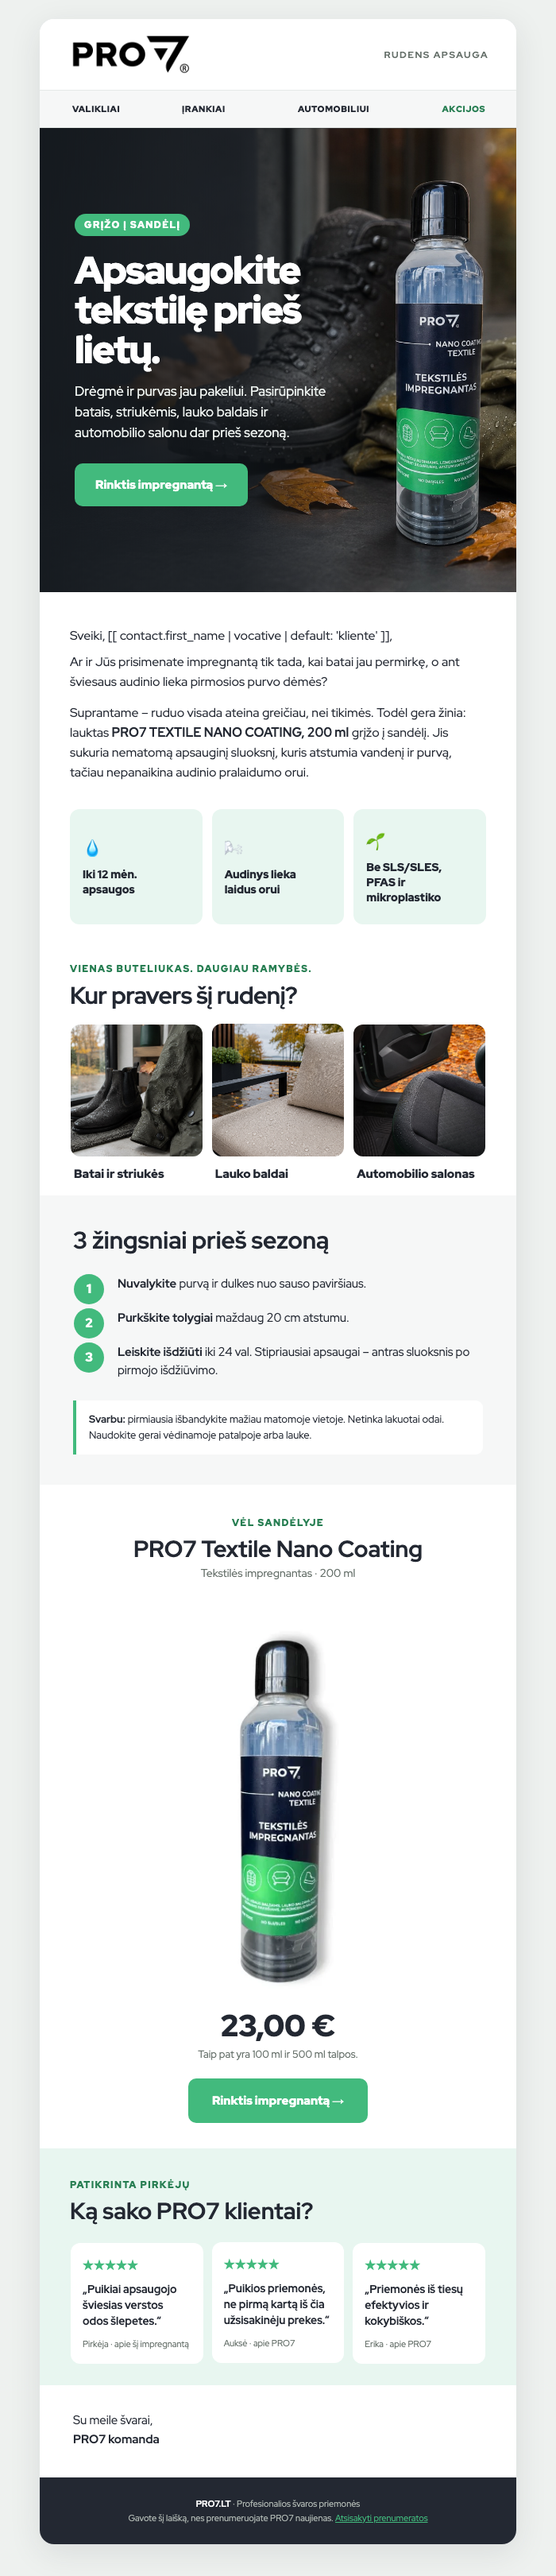
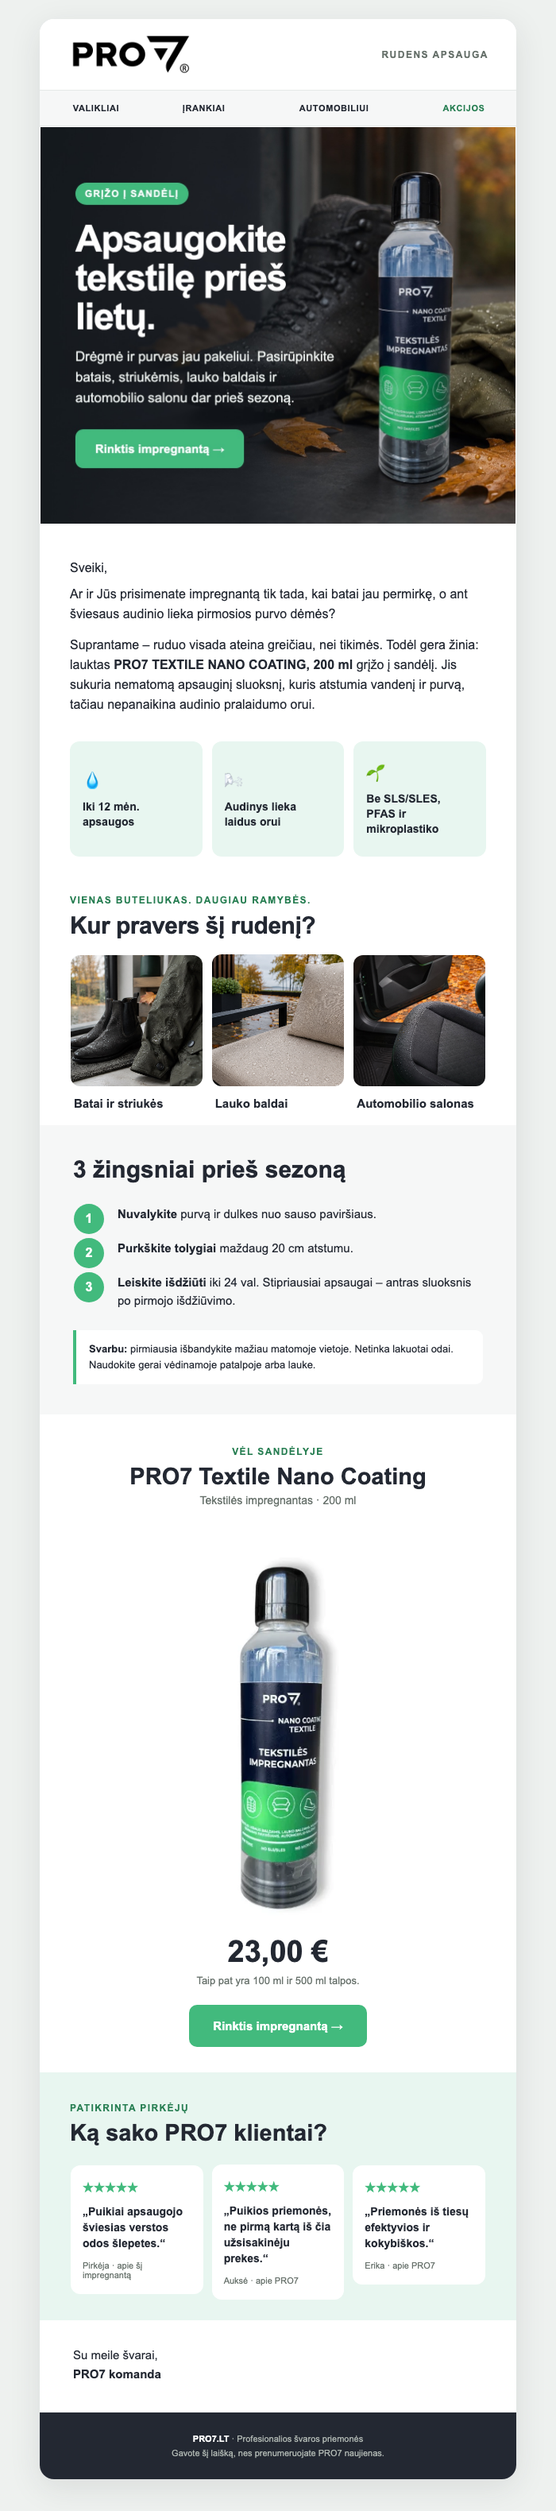
Fix Omnisend rendering, links, greeting, and footer

diff --git a/nl1-textile-impregnantas/index.html b/nl1-textile-impregnantas/index.html
@@ -6,7 +6,6 @@
   <meta name="x-apple-disable-message-reformatting">
   <title>Grįžo tekstilės impregnantas</title>
   <style>
-    @import url('https://fonts.googleapis.com/css2?family=Red+Hat+Display:wght@400;500;700;900&display=swap');
     html,body{margin:0!important;padding:0!important;width:100%!important;background:#eef1ef}
     table{border-collapse:collapse!important;border-spacing:0!important} img{border:0;display:block;line-height:100%;outline:none;text-decoration:none}
     a{text-decoration:none}.preheader{display:none!important;visibility:hidden;opacity:0;color:transparent;height:0;width:0;overflow:hidden;mso-hide:all}
@@ -20,75 +19,68 @@
       <tr><td bgcolor="#ffffff" style="padding:14px 34px">
         <table role="presentation" width="100%"><tr>
           <td><a href="https://www.pro7.lt"><img class="logo" src="assets/pro7-logo-crop.png" width="160" alt="PRO7" style="width:160px;height:auto"></a></td>
-          <td align="right" style="font-family:'Red Hat Display',Arial,sans-serif;font-size:12px;letter-spacing:1.5px;text-transform:uppercase;color:#66706a;font-weight:700">Rudens apsauga</td>
+          <td align="right" style="font-family:Arial,Helvetica,sans-serif;font-size:12px;letter-spacing:1.5px;text-transform:uppercase;color:#66706a;font-weight:700">Rudens apsauga</td>
         </tr></table>
       </td></tr>
       <tr><td bgcolor="#f6f7f7" style="border-top:1px solid #e5e9e7;border-bottom:1px solid #e5e9e7">
         <table role="presentation" width="100%"><tr>
-          <td align="center"><a class="nav-link" href="https://www.pro7.lt/svaros-prekes" style="display:block;padding:14px 6px;font-family:'Red Hat Display',Arial,sans-serif;font-size:11px;font-weight:900;color:#232832;text-transform:uppercase;letter-spacing:.6px">Valikliai</a></td>
-          <td align="center"><a class="nav-link" href="https://www.pro7.lt/valymo-irankiai-ir-reikmenys" style="display:block;padding:14px 6px;font-family:'Red Hat Display',Arial,sans-serif;font-size:11px;font-weight:900;color:#232832;text-transform:uppercase;letter-spacing:.6px">Įrankiai</a></td>
-          <td align="center"><a class="nav-link" href="https://www.pro7.lt/automobilio-prieziuros-priemones" style="display:block;padding:14px 6px;font-family:'Red Hat Display',Arial,sans-serif;font-size:11px;font-weight:900;color:#232832;text-transform:uppercase;letter-spacing:.6px">Automobiliui</a></td>
-          <td align="center"><a class="nav-link" href="https://www.pro7.lt/akcijos-pasiulymai" style="display:block;padding:14px 6px;font-family:'Red Hat Display',Arial,sans-serif;font-size:11px;font-weight:900;color:#277e52;text-transform:uppercase;letter-spacing:.6px">Akcijos</a></td>
+          <td align="center"><a class="nav-link" href="https://www.pro7.lt/svaros-prekes-valikliai" style="display:block;padding:14px 6px;font-family:Arial,Helvetica,sans-serif;font-size:11px;font-weight:700;color:#232832;text-transform:uppercase;letter-spacing:.6px">Valikliai</a></td>
+          <td align="center"><a class="nav-link" href="https://www.pro7.lt/valymo-irankiai-ir-reikmenys" style="display:block;padding:14px 6px;font-family:Arial,Helvetica,sans-serif;font-size:11px;font-weight:700;color:#232832;text-transform:uppercase;letter-spacing:.6px">Įrankiai</a></td>
+          <td align="center"><a class="nav-link" href="https://www.pro7.lt/automobilio-prieziuros-priemones" style="display:block;padding:14px 6px;font-family:Arial,Helvetica,sans-serif;font-size:11px;font-weight:700;color:#232832;text-transform:uppercase;letter-spacing:.6px">Automobiliui</a></td>
+          <td align="center"><a class="nav-link" href="https://www.pro7.lt/akcijos-pasiulymai" style="display:block;padding:14px 6px;font-family:Arial,Helvetica,sans-serif;font-size:11px;font-weight:700;color:#277e52;text-transform:uppercase;letter-spacing:.6px">Akcijos</a></td>
         </tr></table>
       </td></tr>
 
-      <tr><td class="hero-copy" valign="middle" background="assets/hero.jpg" style="height:500px;padding:42px 44px;color:#ffffff;font-family:'Red Hat Display',Arial,sans-serif;background-image:linear-gradient(90deg,rgba(20,25,30,.95) 0%,rgba(20,25,30,.76) 42%,rgba(20,25,30,.08) 72%),url('assets/hero.jpg');background-size:cover;background-position:center">
-        <div class="hero-text" style="max-width:335px">
-          <div style="display:inline-block;background:#42ba7d;border-radius:999px;padding:7px 12px;font-size:12px;line-height:14px;font-weight:900;letter-spacing:1.4px;text-transform:uppercase">Grįžo į sandėlį</div>
-          <h1 class="h1" style="margin:18px 0 14px;font-size:48px;line-height:50px;letter-spacing:-1.5px;font-weight:900">Apsaugokite tekstilę prieš lietų.</h1>
-          <p style="margin:0 0 26px;font-size:17px;line-height:26px;color:#edf2ef">Drėgmė ir purvas jau pakeliui. Pasirūpinkite batais, striukėmis, lauko baldais ir automobilio salonu dar prieš sezoną.</p>
-          <table role="presentation"><tr><td bgcolor="#42ba7d" style="border-radius:10px"><a href="https://www.pro7.lt/svaros-prekes/1437-pro7-textile-nano-coating-200-ml-tekstiles-impregnantas" style="display:inline-block;padding:16px 25px;font-family:'Red Hat Display',Arial,sans-serif;font-size:15px;font-weight:900;color:#ffffff">Rinktis impregnantą →</a></td></tr></table>
-        </div>
-      </td></tr>
+      <tr><td><a href="https://www.pro7.lt/svaros-prekes/1437-pro7-textile-nano-coating-200-ml-tekstiles-impregnantas"><img src="assets/hero-final.jpg" width="600" alt="Grįžo PRO7 tekstilės impregnantas – rinktis impregnantą" style="width:100%;height:auto"></a></td></tr>
 
-      <tr><td class="pad" style="padding:42px 38px 24px;font-family:'Red Hat Display',Arial,sans-serif;color:#232832">
-        <p style="margin:0 0 8px;font-size:16px;line-height:25px">Sveiki, [[ contact.first_name | default: 'bičiuli' ]],</p>
+      <tr><td class="pad" style="padding:42px 38px 24px;font-family:Arial,Helvetica,sans-serif;color:#232832">
+        <p style="margin:0 0 8px;font-size:16px;line-height:25px">Sveiki,</p>
         <p style="margin:0 0 14px;font-size:16px;line-height:25px">Ar ir Jūs prisimenate impregnantą tik tada, kai batai jau permirkę, o ant šviesaus audinio lieka pirmosios purvo dėmės?</p>
         <p style="margin:0;font-size:16px;line-height:25px">Suprantame – ruduo visada ateina greičiau, nei tikimės. Todėl gera žinia: lauktas <strong>PRO7 TEXTILE NANO COATING, 200 ml</strong> grįžo į sandėlį. Jis sukuria nematomą apsauginį sluoksnį, kuris atstumia vandenį ir purvą, tačiau nepanaikina audinio pralaidumo orui.</p>
       </td></tr>
 
       <tr><td class="pad" style="padding:10px 38px 10px">
         <table role="presentation" width="100%"><tr>
-          <td class="benefit" width="33.33%" valign="top" style="padding:0 8px 0 0"><table role="presentation" width="100%" height="145" bgcolor="#e8f6f0" style="height:145px;border-radius:12px"><tr><td valign="middle" style="height:107px;padding:19px 16px;font-family:'Red Hat Display',Arial,sans-serif;color:#232832"><div style="font-size:24px">💧</div><div style="font-size:14px;line-height:19px;font-weight:900;margin-top:7px">Iki 12 mėn.<br>apsaugos</div></td></tr></table></td>
-          <td class="benefit" width="33.33%" valign="top" style="padding:0 4px"><table role="presentation" width="100%" height="145" bgcolor="#e8f6f0" style="height:145px;border-radius:12px"><tr><td valign="middle" style="height:107px;padding:19px 16px;font-family:'Red Hat Display',Arial,sans-serif;color:#232832"><div style="font-size:24px">🌬</div><div style="font-size:14px;line-height:19px;font-weight:900;margin-top:7px">Audinys lieka<br>laidus orui</div></td></tr></table></td>
-          <td class="benefit" width="33.33%" valign="top" style="padding:0 0 0 8px"><table role="presentation" width="100%" height="145" bgcolor="#e8f6f0" style="height:145px;border-radius:12px"><tr><td valign="middle" style="height:107px;padding:19px 16px;font-family:'Red Hat Display',Arial,sans-serif;color:#232832"><div style="font-size:24px">🌱</div><div style="font-size:14px;line-height:19px;font-weight:900;margin-top:7px">Be SLS/SLES,<br>PFAS ir mikroplastiko</div></td></tr></table></td>
+          <td class="benefit" width="33.33%" valign="top" style="padding:0 8px 0 0"><table role="presentation" width="100%" height="145" bgcolor="#e8f6f0" style="height:145px;border-radius:12px"><tr><td valign="middle" style="height:107px;padding:19px 16px;font-family:Arial,Helvetica,sans-serif;color:#232832"><div style="font-size:24px">💧</div><div style="font-size:14px;line-height:19px;font-weight:700;margin-top:7px">Iki 12 mėn.<br>apsaugos</div></td></tr></table></td>
+          <td class="benefit" width="33.33%" valign="top" style="padding:0 4px"><table role="presentation" width="100%" height="145" bgcolor="#e8f6f0" style="height:145px;border-radius:12px"><tr><td valign="middle" style="height:107px;padding:19px 16px;font-family:Arial,Helvetica,sans-serif;color:#232832"><div style="font-size:24px">🌬</div><div style="font-size:14px;line-height:19px;font-weight:700;margin-top:7px">Audinys lieka<br>laidus orui</div></td></tr></table></td>
+          <td class="benefit" width="33.33%" valign="top" style="padding:0 0 0 8px"><table role="presentation" width="100%" height="145" bgcolor="#e8f6f0" style="height:145px;border-radius:12px"><tr><td valign="middle" style="height:107px;padding:19px 16px;font-family:Arial,Helvetica,sans-serif;color:#232832"><div style="font-size:24px">🌱</div><div style="font-size:14px;line-height:19px;font-weight:700;margin-top:7px">Be SLS/SLES,<br>PFAS ir mikroplastiko</div></td></tr></table></td>
         </tr></table>
       </td></tr>
 
-      <tr><td class="pad" style="padding:38px 38px 18px;font-family:'Red Hat Display',Arial,sans-serif;color:#232832">
-        <div style="font-size:12px;letter-spacing:1.4px;text-transform:uppercase;color:#277e52;font-weight:900">Vienas buteliukas. Daugiau ramybės.</div>
+      <tr><td class="pad" style="padding:38px 38px 18px;font-family:Arial,Helvetica,sans-serif;color:#232832">
+        <div style="font-size:12px;letter-spacing:1.4px;text-transform:uppercase;color:#277e52;font-weight:700">Vienas buteliukas. Daugiau ramybės.</div>
         <h2 style="margin:7px 0 0;font-size:30px;line-height:36px;letter-spacing:-.5px">Kur pravers šį rudenį?</h2>
       </td></tr>
       <tr><td class="pad" style="padding:0 38px 4px">
         <table role="presentation" width="100%"><tr>
-          <td class="use-card" width="33.33%" valign="top" style="padding-right:8px"><img src="assets/use-shoes-jacket.jpg" width="169" alt="Vandens lašeliais padengti batai ir lauko striukė" style="width:100%;border-radius:12px"><div style="padding:12px 4px;font-family:'Red Hat Display',Arial,sans-serif;color:#232832;font-size:15px;line-height:20px;font-weight:900">Batai ir striukės</div></td>
-          <td class="use-card" width="33.33%" valign="top" style="padding:0 4px"><img src="assets/use-outdoor-furniture.jpg" width="169" alt="Nuo drėgmės apsaugotas lauko baldo audinys" style="width:100%;border-radius:12px"><div style="padding:12px 4px;font-family:'Red Hat Display',Arial,sans-serif;color:#232832;font-size:15px;line-height:20px;font-weight:900">Lauko baldai</div></td>
-          <td class="use-card" width="33.33%" valign="top" style="padding-left:8px"><img src="assets/use-car-interior.jpg" width="169" alt="Nuo drėgmės apsaugotas automobilio salono audinys" style="width:100%;border-radius:12px"><div style="padding:12px 4px;font-family:'Red Hat Display',Arial,sans-serif;color:#232832;font-size:15px;line-height:20px;font-weight:900">Automobilio salonas</div></td>
+          <td class="use-card" width="33.33%" valign="top" style="padding-right:8px"><img src="assets/use-shoes-jacket.jpg" width="169" alt="Vandens lašeliais padengti batai ir lauko striukė" style="width:100%;border-radius:12px"><div style="padding:12px 4px;font-family:Arial,Helvetica,sans-serif;color:#232832;font-size:15px;line-height:20px;font-weight:700">Batai ir striukės</div></td>
+          <td class="use-card" width="33.33%" valign="top" style="padding:0 4px"><img src="assets/use-outdoor-furniture.jpg" width="169" alt="Nuo drėgmės apsaugotas lauko baldo audinys" style="width:100%;border-radius:12px"><div style="padding:12px 4px;font-family:Arial,Helvetica,sans-serif;color:#232832;font-size:15px;line-height:20px;font-weight:700">Lauko baldai</div></td>
+          <td class="use-card" width="33.33%" valign="top" style="padding-left:8px"><img src="assets/use-car-interior.jpg" width="169" alt="Nuo drėgmės apsaugotas automobilio salono audinys" style="width:100%;border-radius:12px"><div style="padding:12px 4px;font-family:Arial,Helvetica,sans-serif;color:#232832;font-size:15px;line-height:20px;font-weight:700">Automobilio salonas</div></td>
         </tr></table>
       </td></tr>
 
-      <tr><td class="pad" bgcolor="#f6f7f7" style="padding:38px 42px;font-family:'Red Hat Display',Arial,sans-serif;color:#232832">
+      <tr><td class="pad" bgcolor="#f6f7f7" style="padding:38px 42px;font-family:Arial,Helvetica,sans-serif;color:#232832">
         <h2 style="margin:0 0 24px;font-size:30px;line-height:36px">3 žingsniai prieš sezoną</h2>
         <table role="presentation" width="100%">
-          <tr><td class="step-num" width="54" valign="top"><div style="width:38px;height:38px;border-radius:50%;background:#42ba7d;color:#fff;text-align:center;line-height:38px;font-weight:900">1</div></td><td style="padding:2px 0 18px;font-size:15px;line-height:23px"><strong>Nuvalykite</strong> purvą ir dulkes nuo sauso paviršiaus.</td></tr>
-          <tr><td class="step-num" width="54" valign="top"><div style="width:38px;height:38px;border-radius:50%;background:#42ba7d;color:#fff;text-align:center;line-height:38px;font-weight:900">2</div></td><td style="padding:2px 0 18px;font-size:15px;line-height:23px"><strong>Purkškite tolygiai</strong> maždaug 20 cm atstumu.</td></tr>
-          <tr><td class="step-num" width="54" valign="top"><div style="width:38px;height:38px;border-radius:50%;background:#42ba7d;color:#fff;text-align:center;line-height:38px;font-weight:900">3</div></td><td style="padding:2px 0;font-size:15px;line-height:23px"><strong>Leiskite išdžiūti</strong> iki 24 val. Stipriausiai apsaugai – antras sluoksnis po pirmojo išdžiūvimo.</td></tr>
+          <tr><td class="step-num" width="54" valign="top"><div style="width:38px;height:38px;border-radius:50%;background:#42ba7d;color:#fff;text-align:center;line-height:38px;font-weight:700">1</div></td><td style="padding:2px 0 18px;font-size:15px;line-height:23px"><strong>Nuvalykite</strong> purvą ir dulkes nuo sauso paviršiaus.</td></tr>
+          <tr><td class="step-num" width="54" valign="top"><div style="width:38px;height:38px;border-radius:50%;background:#42ba7d;color:#fff;text-align:center;line-height:38px;font-weight:700">2</div></td><td style="padding:2px 0 18px;font-size:15px;line-height:23px"><strong>Purkškite tolygiai</strong> maždaug 20 cm atstumu.</td></tr>
+          <tr><td class="step-num" width="54" valign="top"><div style="width:38px;height:38px;border-radius:50%;background:#42ba7d;color:#fff;text-align:center;line-height:38px;font-weight:700">3</div></td><td style="padding:2px 0;font-size:15px;line-height:23px"><strong>Leiskite išdžiūti</strong> iki 24 val. Stipriausiai apsaugai – antras sluoksnis po pirmojo išdžiūvimo.</td></tr>
         </table>
         <div style="margin-top:24px;padding:14px 16px;border-left:4px solid #42ba7d;background:#ffffff;border-radius:0 9px 9px 0;font-size:13px;line-height:20px"><strong>Svarbu:</strong> pirmiausia išbandykite mažiau matomoje vietoje. Netinka lakuotai odai. Naudokite gerai vėdinamoje patalpoje arba lauke.</div>
       </td></tr>
 
-      <tr><td class="pad" align="center" bgcolor="#ffffff" style="padding:40px 38px 32px;font-family:'Red Hat Display',Arial,sans-serif;color:#232832">
-        <div style="font-size:12px;letter-spacing:1.4px;text-transform:uppercase;color:#277e52;font-weight:900">Vėl sandėlyje</div>
+      <tr><td class="pad" align="center" bgcolor="#ffffff" style="padding:40px 38px 32px;font-family:Arial,Helvetica,sans-serif;color:#232832">
+        <div style="font-size:12px;letter-spacing:1.4px;text-transform:uppercase;color:#277e52;font-weight:700">Vėl sandėlyje</div>
         <h2 style="margin:7px 0 4px;font-size:29px;line-height:35px">PRO7 Textile Nano Coating</h2>
         <div style="font-size:14px;color:#66706a">Tekstilės impregnantas · 200 ml</div>
         <a href="https://www.pro7.lt/svaros-prekes/1437-pro7-textile-nano-coating-200-ml-tekstiles-impregnantas"><img class="product-shot" src="assets/product-crop.png" width="280" alt="PRO7 Textile Nano Coating, 200 ml" style="width:280px;max-width:100%;height:auto;margin:12px auto 4px"></a>
-        <div style="font-size:38px;line-height:43px;font-weight:900;margin:0 0 5px">23,00 €</div>
+        <div style="font-size:38px;line-height:43px;font-weight:700;margin:0 0 5px">23,00 €</div>
         <div style="font-size:13px;line-height:20px;color:#66706a;margin-bottom:20px">Taip pat yra 100 ml ir 500 ml talpos.</div>
-        <table role="presentation"><tr><td bgcolor="#42ba7d" style="border-radius:10px"><a href="https://www.pro7.lt/svaros-prekes/1437-pro7-textile-nano-coating-200-ml-tekstiles-impregnantas" style="display:inline-block;padding:17px 29px;font-family:'Red Hat Display',Arial,sans-serif;font-size:15px;font-weight:900;color:#fff">Rinktis impregnantą →</a></td></tr></table>
+        <table role="presentation"><tr><td bgcolor="#42ba7d" style="border-radius:10px"><a href="https://www.pro7.lt/svaros-prekes/1437-pro7-textile-nano-coating-200-ml-tekstiles-impregnantas" style="display:inline-block;padding:17px 29px;font-family:Arial,Helvetica,sans-serif;font-size:15px;font-weight:700;color:#fff">Rinktis impregnantą →</a></td></tr></table>
       </td></tr>
 
-      <tr><td class="pad" bgcolor="#e8f6f0" style="padding:38px 38px 26px;font-family:'Red Hat Display',Arial,sans-serif;color:#232832">
-        <div style="font-size:12px;letter-spacing:1.4px;text-transform:uppercase;color:#277e52;font-weight:900">Patikrinta pirkėjų</div>
+      <tr><td class="pad" bgcolor="#e8f6f0" style="padding:38px 38px 26px;font-family:Arial,Helvetica,sans-serif;color:#232832">
+        <div style="font-size:12px;letter-spacing:1.4px;text-transform:uppercase;color:#277e52;font-weight:700">Patikrinta pirkėjų</div>
         <h2 style="margin:7px 0 22px;font-size:29px;line-height:35px">Ką sako PRO7 klientai?</h2>
         <table role="presentation" width="100%"><tr>
           <td class="review-card" width="33.33%" valign="top" style="padding-right:7px"><table role="presentation" width="100%" bgcolor="#ffffff" style="border-radius:12px"><tr><td style="padding:18px 15px"><div style="color:#42ba7d;font-size:14px">★★★★★</div><p style="margin:9px 0 12px;font-size:14px;line-height:20px;font-weight:700">„Puikiai apsaugojo šviesias verstos odos šlepetes.“</p><div style="font-size:11px;color:#66706a">Pirkėja · apie šį impregnantą</div></td></tr></table></td>
@@ -97,12 +89,12 @@
         </tr></table>
       </td></tr>
 
-      <tr><td class="pad" style="padding:32px 42px 36px;font-family:'Red Hat Display',Arial,sans-serif;color:#232832;font-size:15px;line-height:24px">
+      <tr><td class="pad" style="padding:32px 42px 36px;font-family:Arial,Helvetica,sans-serif;color:#232832;font-size:15px;line-height:24px">
         <p style="margin:0">Su meile švarai,<br><strong>PRO7 komanda</strong></p>
       </td></tr>
-      <tr><td align="center" bgcolor="#232832" style="padding:24px 30px;font-family:'Red Hat Display',Arial,sans-serif;color:#aeb6b1;font-size:11px;line-height:18px">
+      <tr><td align="center" bgcolor="#232832" style="padding:24px 30px;font-family:Arial,Helvetica,sans-serif;color:#aeb6b1;font-size:11px;line-height:18px">
         <a href="https://www.pro7.lt" style="color:#ffffff;font-weight:700">PRO7.LT</a> · Profesionalios švaros priemonės<br>
-        Gavote šį laišką, nes prenumeruojate PRO7 naujienas. <a href="[[unsubscribe_link]]" style="color:#42ba7d;text-decoration:underline">Atsisakyti prenumeratos</a>
+        Gavote šį laišką, nes prenumeruojate PRO7 naujienas.
       </td></tr>
     </table>
   </td></tr></table>

diff --git a/nl1-textile-impregnantas/hero-build.html b/nl1-textile-impregnantas/hero-build.html
@@ -1,0 +1,3 @@
+<!doctype html><html><head><meta charset="utf-8"><style>
+*{box-sizing:border-box}html,body{margin:0;width:600px;height:500px;overflow:hidden;font-family:Arial,Helvetica,sans-serif}.hero{width:600px;height:500px;background-image:linear-gradient(90deg,rgba(20,25,30,.96) 0%,rgba(20,25,30,.77) 43%,rgba(20,25,30,.08) 73%),url('assets/hero.jpg');background-size:cover;background-position:center;display:flex;align-items:center;padding:42px 44px;color:white}.copy{width:335px}.badge{display:inline-block;background:#42ba7d;border-radius:999px;padding:7px 12px;font-size:12px;line-height:14px;font-weight:700;letter-spacing:1.2px;text-transform:uppercase}.title{font-size:47px;line-height:49px;letter-spacing:-1.5px;font-weight:700;margin:18px 0 14px}.text{font-size:17px;line-height:26px;color:#edf2ef;margin:0 0 26px}.cta{display:inline-block;background:#42ba7d;border-radius:10px;padding:16px 25px;font-size:15px;font-weight:700}
+</style></head><body><div class="hero"><div class="copy"><div class="badge">Grįžo į sandėlį</div><div class="title">Apsaugokite tekstilę prieš lietų.</div><p class="text">Drėgmė ir purvas jau pakeliui. Pasirūpinkite batais, striukėmis, lauko baldais ir automobilio salonu dar prieš sezoną.</p><div class="cta">Rinktis impregnantą →</div></div></div></body></html>

diff --git a/nl1-textile-impregnantas/CAMPAIGN.md b/nl1-textile-impregnantas/CAMPAIGN.md
@@ -13,8 +13,10 @@
 
 - Laiško plotis: 600 px. Maketas responsyvus ir paremtas el. paštui saugiomis lentelėmis.
 - Prieš siuntimą `assets/` vaizdus reikia įkelti į Omnisend CDN ir HTML faile pakeisti santykinius `src` adresus.
-- Naudojama oficiali Omnisend personalizacija: `[[ contact.first_name | default: 'bičiuli' ]]`.
-- Atsisakymo nuoroda naudoja oficialų Omnisend kintamąjį `[[unsubscribe_link]]`.
+- Kreipinys paliktas universalus: `Sveiki,` — be vardo kintamojo, kad kontaktams be vardo neliktų klaidinga skyryba.
+- HTML faile nėra papildomos atsisakymo nuorodos; naudojamas vienas Omnisend automatiškai pridedamas privalomas atsisakymo blokas.
+- Hero yra vienas patikimai mobiliuose el. pašto klientuose rodomas JPG, o ne CSS fonas.
+- Visame laiške naudojama viena el. paštui saugi šriftų šeima: Arial / Helvetica / sans-serif.
 - Prieš siuntimą dar kartą patvirtinkite 23,00 € kainą, likutį ir produkto teiginius su PRO7 atsakingu asmeniu.
 
 ## Vizualų kilmė
